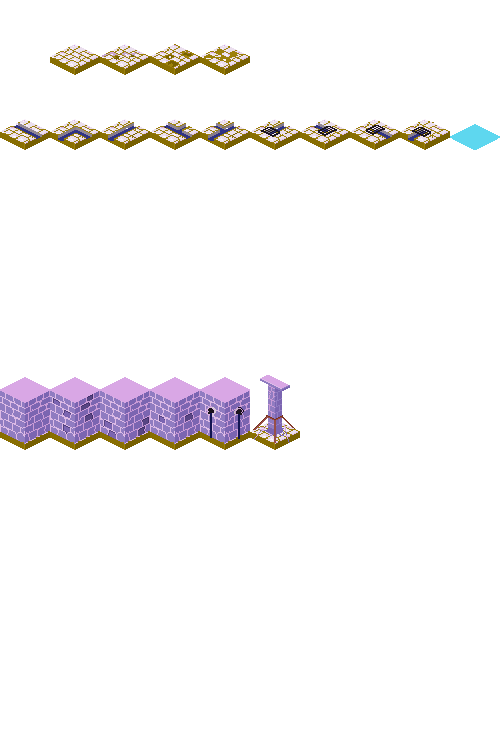
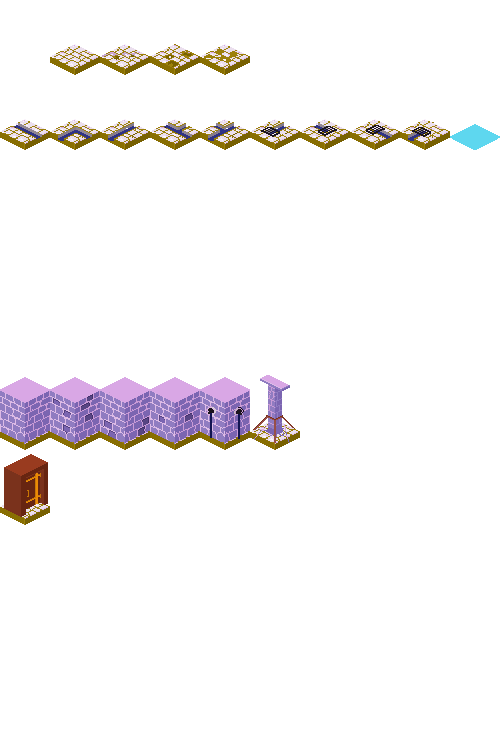
Added wooden door

Changed region(s): [[0.0, 0.5827, 0.12, 0.7053]]

diff --git a/js/enemy/enemy.js b/js/enemy/enemy.js
@@ -12,6 +12,8 @@ enemyClass.prototype = new CharacterBase();
 
 function enemyClass() {
     this.findPlayer = true;
+    this.meleeCombatTactics;
+    this.archerCombatTactics;
 
 	this.superInit = this.init;
 	this.init = function (whichTile){
@@ -19,12 +21,18 @@ function enemyClass() {
         if(whichTile == TILE_KOBALD){
             whichGraphic = kobaldPic;
             this.maxMovement = 8;
+            this.meleeCombatTactics = true;
+            this.archerCombatTactics = false;
         } else if (whichTile == TILE_KOA_TOA){
             whichGraphic = koaToaPic;
             this.maxMovement = 6;
+            this.meleeCombatTactics = true;
+            this.archerCombatTactics = false;
         } else if (whichTile == TILE_KOBALD_ARCHER){
             whichGraphic = kobaldArcherPic;
             this.maxMovement = 8;
+            this.meleeCombatTactics = false;
+            this.archerCombatTactics = true;
         }
 		this.superInit(whichGraphic,'enemy', whichTile);
         console.log(whichTile)
@@ -53,8 +61,13 @@ function enemyClass() {
     this.checkPlayerLocationForNextMove = function(currentIndex){
         var enemyRow = whichRow(currentIndex);
         var playerIndex = getTileIndexAtPixelCoord(playerOne.x,playerOne.y);
-        var enemyDestinationIndex = indexS(playerIndex);
-        var destinationRow = whichRow(enemyDestinationIndex);
+        if(this.meleeCombatTactics){
+            var enemyDestinationIndex = indexS(playerIndex);   
+            var destinationRow = whichRow(enemyDestinationIndex);
+        } else if (this.archerCombatTactics){
+            var enemyDestinationIndex = indexS(playerIndex);   
+            var destinationRow = whichRow(enemyDestinationIndex);
+        }
         var enemyCol = currentIndex%ROOM_COLS;
         var playerCol = Math.floor(playerOne.x/ROOM_W);
 

diff --git a/js/world/world.js b/js/world/world.js
@@ -31,7 +31,7 @@ var levelOne = [
 					 52,  1,  1,  1,  1,  1,150,  1,  1,  1,  1, 19,  1,  1,  1,  4,  1,  1,  1,  1,
 					 50,  1,  1,  1,  1,  1,  1,  1,  1,  1,  1, 19,  1,  1,  1,  1,  1,  1,  1,  1,
 					 53,  1,  1,  1,  1,  1, 55,  1,  1,  3,  1, 19,  1,  1,  1, 55,  1,  1,  1,  1,
-					 50,  1,  1,  1,  1,  1,  1,  1,  1,  1,  1, 19,  3,  1,  3,  1,  1,  1,  1,  1,
+					 60,  1,  1,  1,  1,  1,  1,  1,  1,  1,  1, 19,  3,  1,  3,  1,  1,  1,  1,  1,
 					 52, 18,  1,  1,  1,  1,  1,  3,  1,  1,  1, 19,  4,  1,  1,  1,  1,  1,  1,  1,
 					 54, 14,  1,  1,  1,  1,155,  1,  3,  1,  1, 19,  1,  1,  1,  1,  4,  1,  1,  1,
 					 52, 12,  1,  1,  1,  1,  1,  3,  1,  1,  1, 19, 19, 19, 19, 19, 19, 19, 19, 19,
@@ -77,6 +77,7 @@ var levelTwo =[
 	const TILE_WALL_STONE_4 = 53;
 	const TILE_WALL_STONE_5 = 54;
 	const TILE_COLUMN_STONE_1 = 55;
+	const TILE_WOODEN_DOOR_1 = 60;
 	//Player and Enemies 100 through 149
 	const TILE_PLAYER = 100;
 	const TILE_KOBALD = 110;
@@ -100,7 +101,8 @@ var levelTwo =[
 	var tileNavData = [
 		{navMode: NAVMODE_IMPASSIBLE, tileTypes: [TILE_WALL_STONE_1, TILE_WALL_STONE_2, TILE_WALL_STONE_3, TILE_WALL_STONE_4, TILE_WALL_STONE_5, TILE_COLUMN_STONE_1]},
 		{navMode: NAVMODE_WALKABLE, tileTypes: [TILE_FLOOR_SEWER_1, TILE_FLOOR_SEWER_2, TILE_FLOOR_SEWER_3, TILE_FLOOR_SEWER_4, TILE_FLOOR_SEWER_5, TILE_FLOOR_SEWER_6, TILE_FLOOR_SEWER_7, TILE_FLOOR_SEWER_8, TILE_FLOOR_SEWER_9, TILE_FLOOR_STONE_1, TILE_FLOOR_STONE_2, TILE_FLOOR_STONE_3, TILE_FLOOR_STONE_4]},
-		{navMode: NAVMODE_FLYABLE, tileTypes: [TILE_WATER]}
+		{navMode: NAVMODE_FLYABLE, tileTypes: [TILE_WATER]},
+		{navMode: NAVMODE_LOCKED, tileTypes: [TILE_WOODEN_DOOR_1]},
 	];
 
 	function tileTypeNavMode(tiletype){
